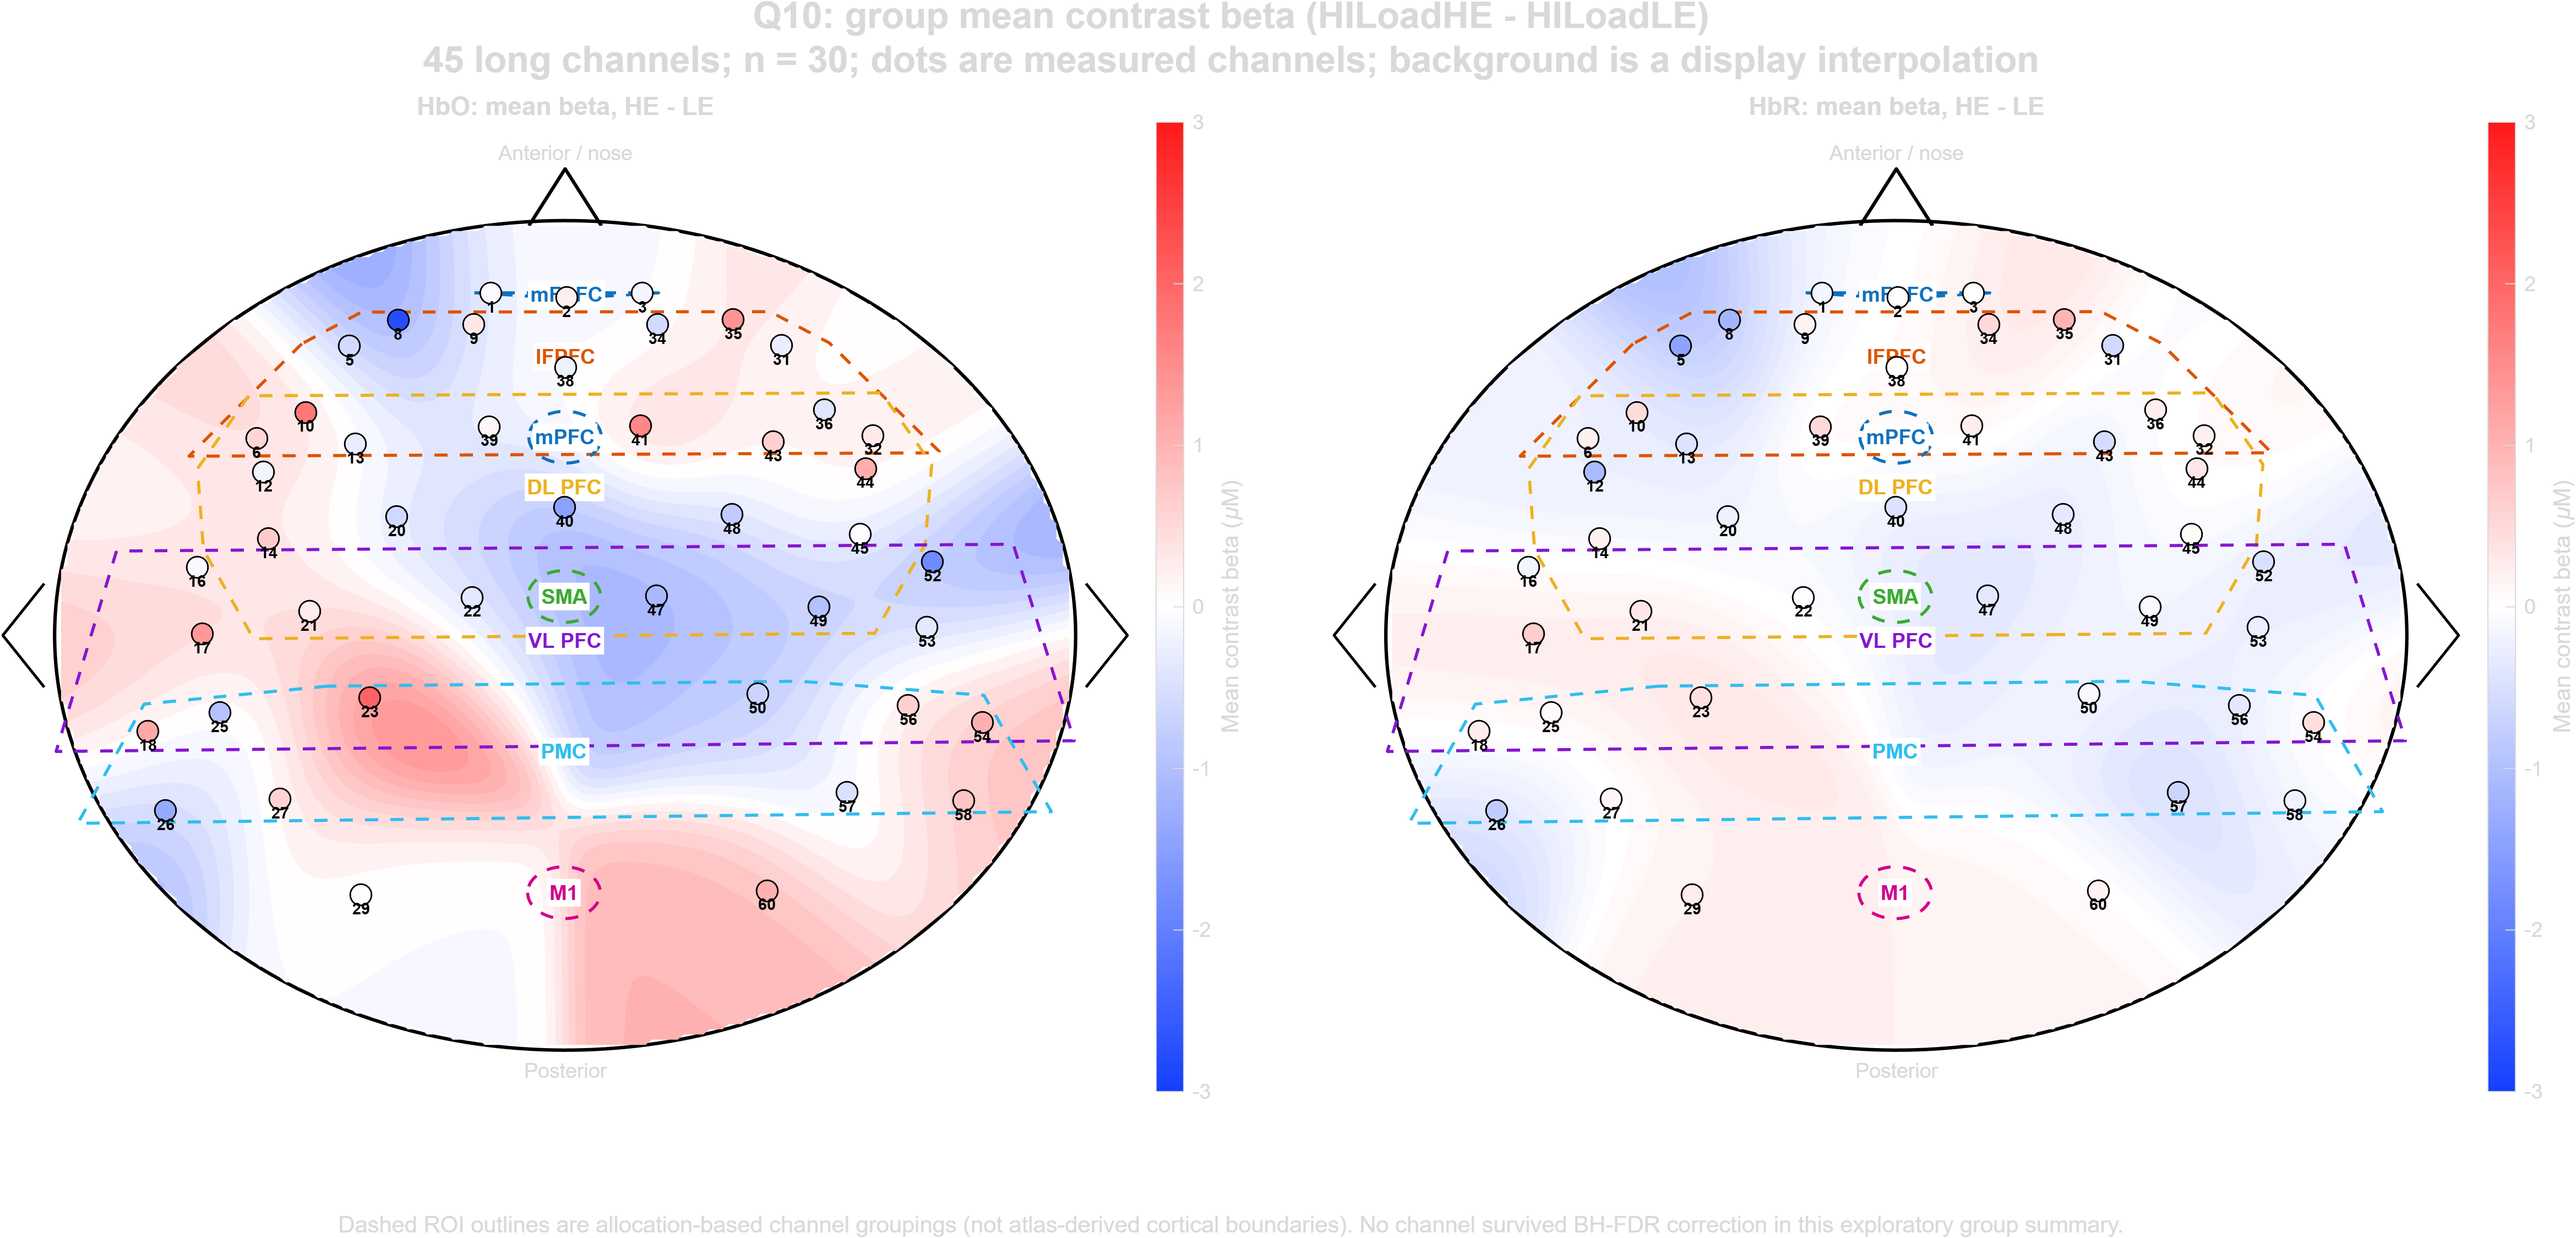
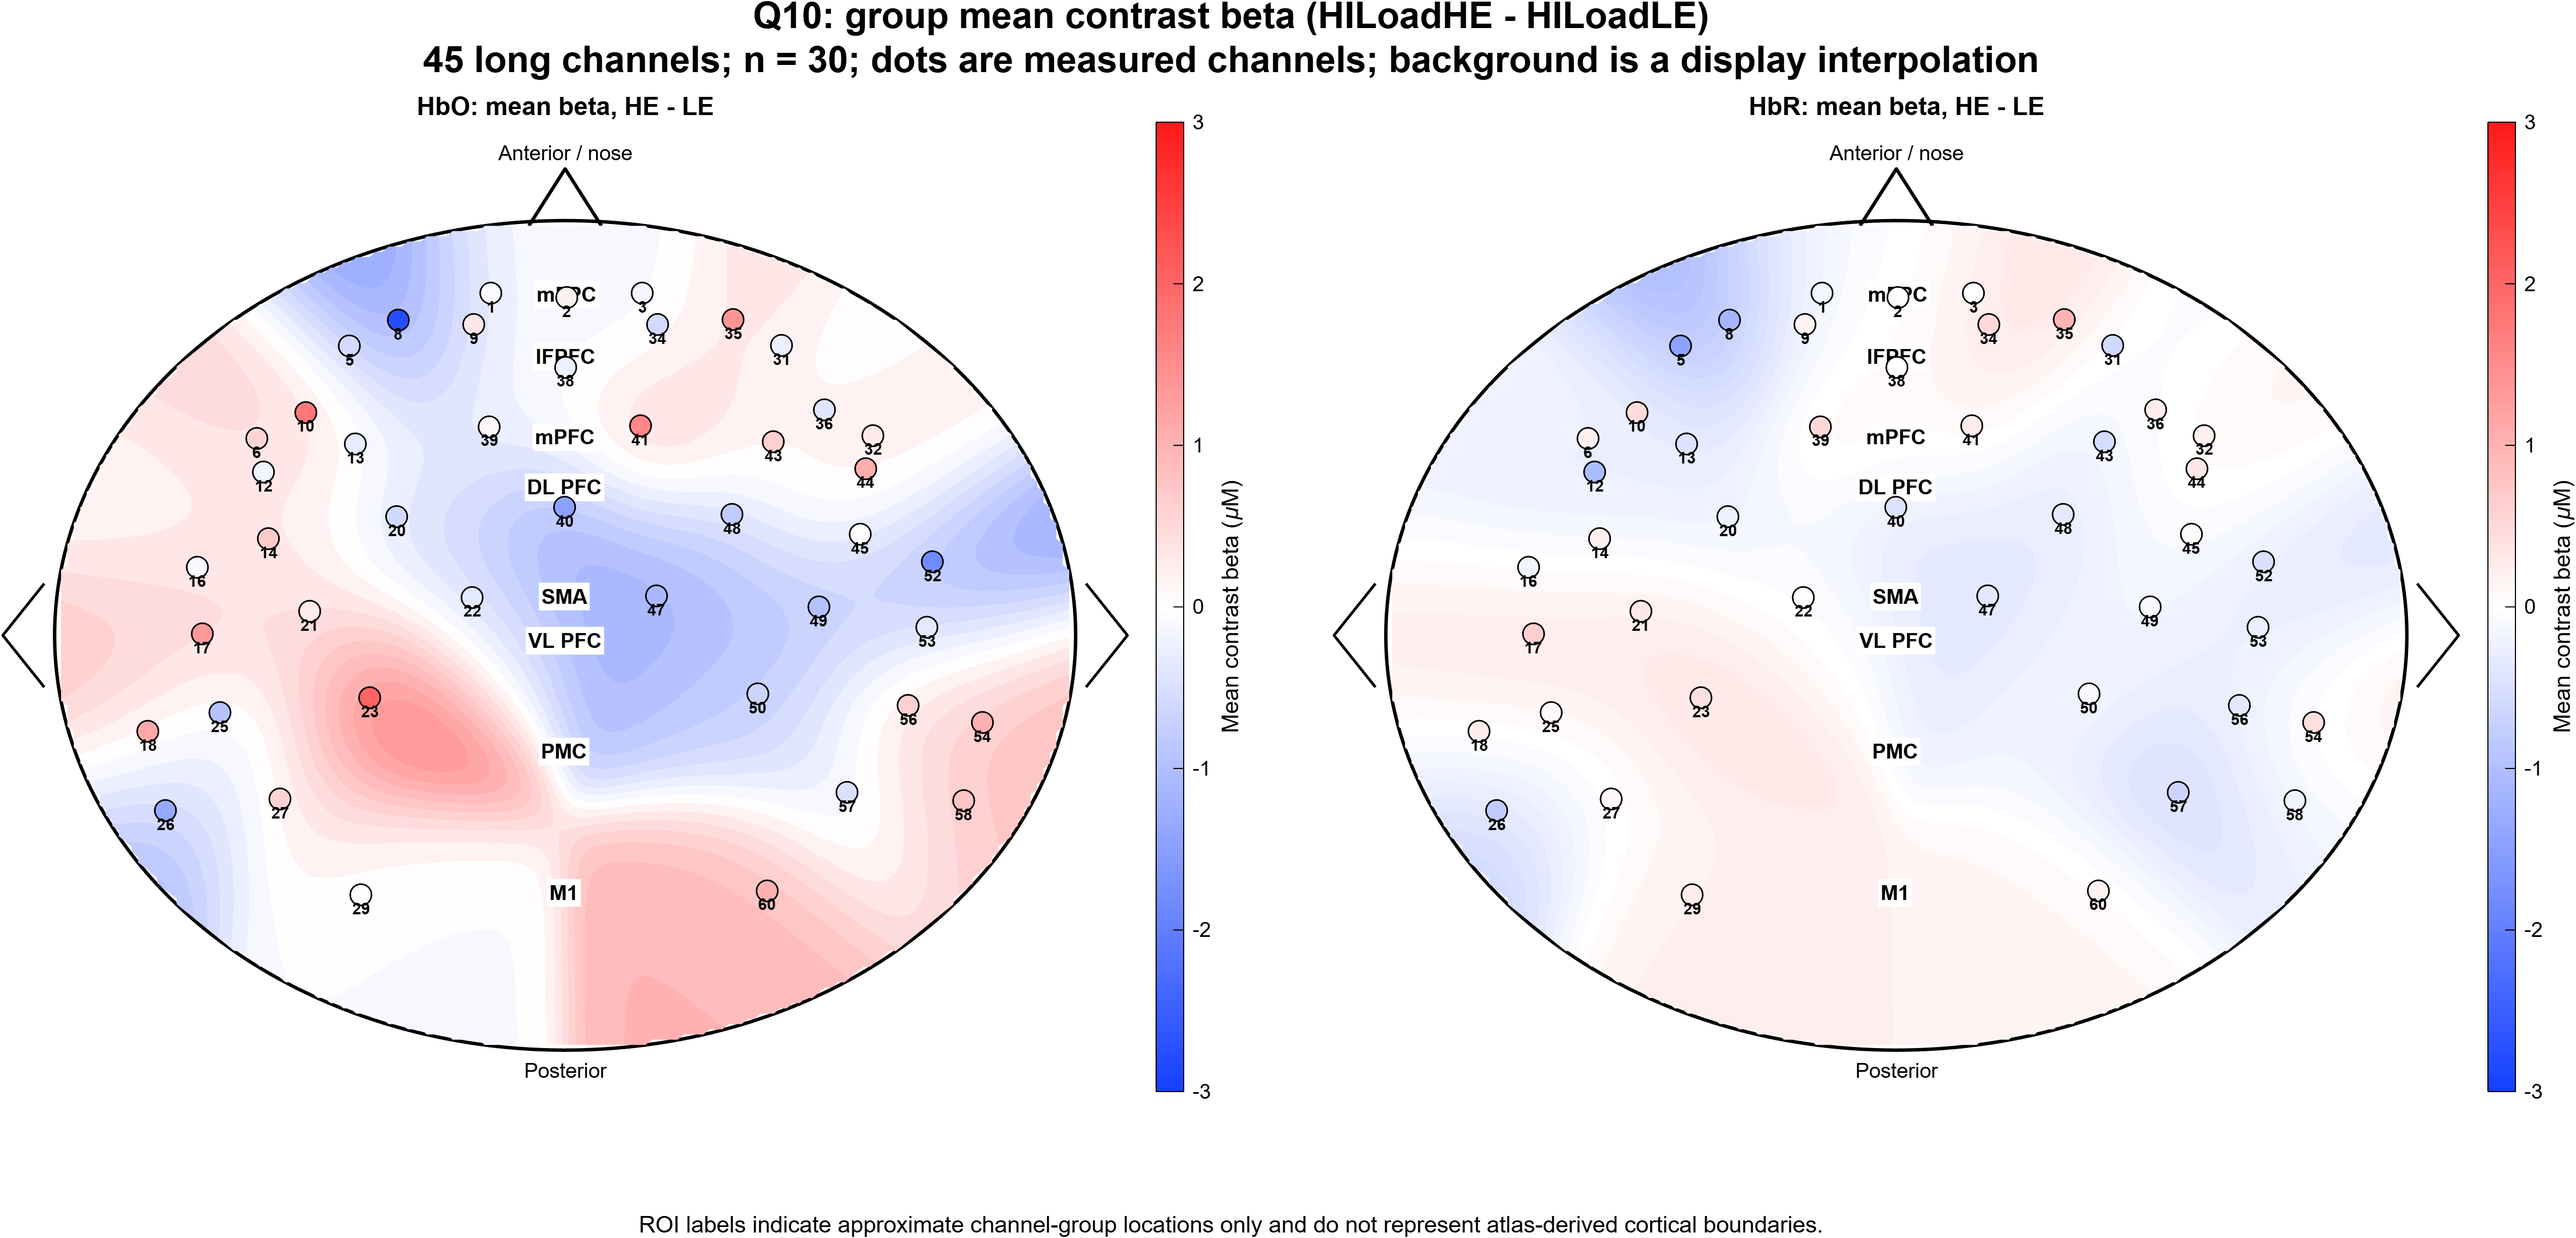
Refine Q10 topography presentation

diff --git a/code/matlab/plot_q10_roi_channel_topography.m b/code/matlab/plot_q10_roi_channel_topography.m
@@ -41,13 +41,13 @@ function plot_q10_roi_channel_topography()
     tiledlayout(1, 2, 'TileSpacing', 'compact', 'Padding', 'compact');
     draw_panel(hbo, beta_limit, 'HbO');
     draw_panel(hbr, beta_limit, 'HbR');
-    sgtitle({'Q10: group mean contrast beta (HILoadHE - HILoadLE)', ...
+    main_title = sgtitle({'Q10: group mean contrast beta (HILoadHE - HILoadLE)', ...
         '45 long channels; n = 30; dots are measured channels; background is a display interpolation'}, ...
-        'FontWeight', 'bold', 'FontSize', 16);
+        'FontWeight', 'bold', 'FontSize', 16, 'Color', 'k');
 
-    annotation(figure_handle, 'textbox', [0.15 0.018 0.70 0.045], 'String', ...
-        'Dashed ROI outlines are allocation-based channel groupings (not atlas-derived cortical boundaries). No channel survived BH-FDR correction in this exploratory group summary.', ...
-        'EdgeColor', 'none', 'HorizontalAlignment', 'center', 'FontSize', 10);
+    annotation(figure_handle, 'textbox', [0.12 0.018 0.76 0.045], 'String', ...
+        'ROI labels indicate approximate channel-group locations only and do not represent atlas-derived cortical boundaries.', ...
+        'EdgeColor', 'none', 'HorizontalAlignment', 'center', 'FontSize', 10, 'Color', 'k');
 
     png_file = fullfile(output_dir, 'q10_group_roi_channel_topography_long45_n30.png');
     pdf_file = fullfile(output_dir, 'q10_group_roi_channel_topography_long45_n30.pdf');
@@ -99,25 +99,14 @@ function draw_panel(data, beta_limit, chromophore)
     colormap(ax, blue_white_red(256));
     clim(ax, [-beta_limit beta_limit]);
 
-    % The broad ROI boundaries are deliberately shown as allocation groups,
-    % not precise anatomical/atlas parcels.
+    % Broad ROI names are text annotations only.  No ROI outline is drawn,
+    % so this panel does not imply a precise anatomical parcel or nesting.
     roi_names = unique(data.roi, 'stable');
-    roi_colours = lines(numel(roi_names));
     for r = 1:numel(roi_names)
         subset = data(data.roi == roi_names(r), :);
         centre = [mean(subset.x), mean(subset.y)];
-        if height(subset) >= 3
-            points = [subset.x, subset.y];
-            hull_index = convhull(points(:,1), points(:,2));
-            hull = points(hull_index, :);
-            hull = centre + 1.22*(hull-centre);
-            plot(ax, hull(:,1), hull(:,2), '--', 'Color', roi_colours(r,:), 'LineWidth', 1.35);
-        else
-            rectangle(ax, 'Position', [centre(1)-7 centre(2)-5 14 10], 'Curvature', [1 1], ...
-                'EdgeColor', roi_colours(r,:), 'LineStyle', '--', 'LineWidth', 1.35);
-        end
         text(ax, centre(1), centre(2), short_roi_name(roi_names(r)), 'HorizontalAlignment', 'center', ...
-            'VerticalAlignment', 'middle', 'FontWeight', 'bold', 'Color', roi_colours(r,:), ...
+            'VerticalAlignment', 'middle', 'FontWeight', 'bold', 'Color', 'k', ...
             'BackgroundColor', 'w', 'Margin', 1, 'FontSize', 9);
     end
 
@@ -126,22 +115,24 @@ function draw_panel(data, beta_limit, chromophore)
         text(ax, data.x(idx), data.y(idx)-2.8, sprintf('%d', data.channel_id(idx)), ...
             'HorizontalAlignment', 'center', 'FontSize', 7, 'FontWeight', 'bold', 'Color', 'k');
     end
-    title(ax, sprintf('%s: mean beta, HE - LE', chromophore), 'FontWeight', 'bold');
+    title(ax, sprintf('%s: mean beta, HE - LE', chromophore), 'FontWeight', 'bold', 'Color', 'k');
     xlim(ax, x_center + [-radius_x-12 radius_x+12]);
     ylim(ax, y_center + [-radius_y-8 radius_y+19]);
     cb = colorbar(ax);
     cb.Label.String = 'Mean contrast beta (\muM)';
     cb.Label.FontSize = 10;
-    text(ax, x_center, y_center-radius_y-4, 'Posterior', 'HorizontalAlignment', 'center', 'FontSize', 9);
-    text(ax, x_center, y_center+radius_y+13, 'Anterior / nose', 'HorizontalAlignment', 'center', 'FontSize', 9);
+    cb.Label.Color = 'k';
+    cb.Color = 'k';
+    text(ax, x_center, y_center-radius_y-4, 'Posterior', 'HorizontalAlignment', 'center', 'FontSize', 9, 'Color', 'k');
+    text(ax, x_center, y_center+radius_y+13, 'Anterior / nose', 'HorizontalAlignment', 'center', 'FontSize', 9, 'Color', 'k');
 end
 
 function label = short_roi_name(roi)
     switch string(roi)
-        case "Medial Frontopolar PFC", label = 'mFPFC';
+        case "Medial Frontopolar PFC", label = 'mFPC';
         case "Lateral Frontopolar PFC", label = 'lFPFC';
-        case "Dorsolateral PFC", label = 'dlPFC';
-        case "Ventrolateral PFC", label = 'vlPFC';
+        case "Dorsolateral PFC", label = 'DL PFC';
+        case "Ventrolateral PFC", label = 'VL PFC';
         case "Medial PFC", label = 'mPFC';
         case "Premotor Cortex", label = 'PMC';
         case "Supplementary Motor Area", label = 'SMA';
